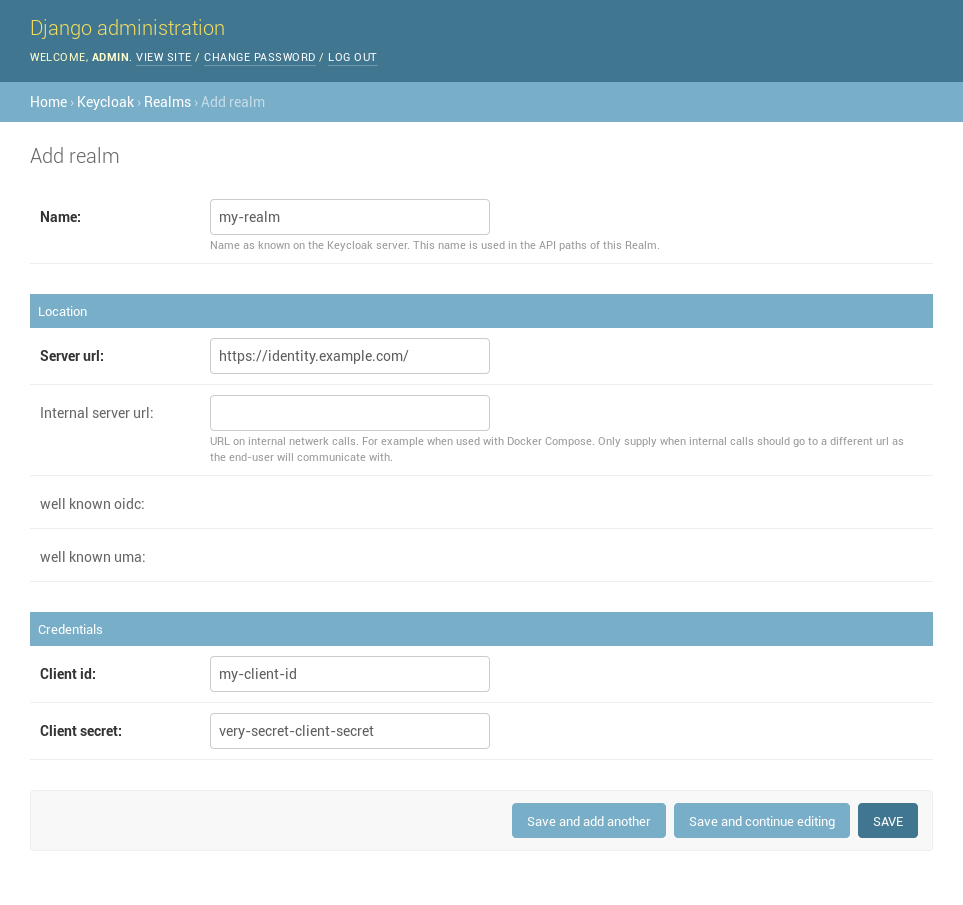
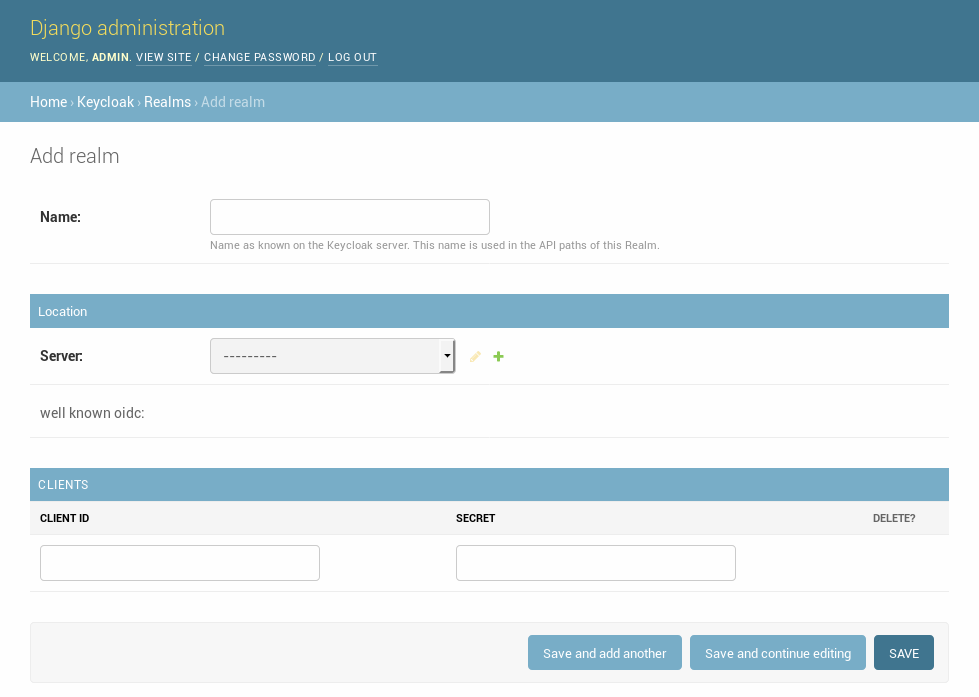
Service account (#6)
* Added Client service account as user

* Fixed unnittests

* - Updated docs to latest changes.
- Fixed some bugs after refactoring

* Fixed unittests

diff --git a/src/django_keycloak/auth/backends.py b/src/django_keycloak/auth/backends.py
@@ -4,7 +4,7 @@ from django.contrib.auth import get_user_model
 from django.core.exceptions import ImproperlyConfigured
 from django.utils import timezone
 
-import django_keycloak.services.user
+import django_keycloak.services.oidc_profile
 
 
 logger = logging.getLogger(__name__)
@@ -33,7 +33,7 @@ class KeycloakAuthorizationCodeBackend(object):
                 'Add BaseKeycloakMiddleware to middlewares')
 
         keycloak_openid_profile = django_keycloak.services\
-            .user.update_or_create_from_code(
+            .oidc_profile.update_or_create_from_code(
                 client=request.realm.client,
                 code=code,
                 redirect_uri=redirect_uri
@@ -53,14 +53,14 @@ class KeycloakAuthorizationCodeBackend(object):
         if not hasattr(user_obj, 'oidc_profile'):
             return set()
 
-        rpt_decoded = django_keycloak.services.user\
+        rpt_decoded = django_keycloak.services.oidc_profile\
             .get_entitlement(oidc_profile=user_obj.oidc_profile)
 
         logger.debug(rpt_decoded)
 
         return [
             role for role in rpt_decoded['resource_access'].get(
-                user_obj.oidc_profile.realm.client_id,
+                user_obj.oidc_profile.realm.client.client_id,
                 {'roles': []}
             )['roles']
         ]

diff --git a/src/django_keycloak/views.py b/src/django_keycloak/views.py
@@ -37,17 +37,17 @@ class Login(RedirectView):
 
         self.request.session['oidc_state'] = str(nonce.state)
 
-        authorization_url = self.request.realm.openid_api_client\
+        authorization_url = self.request.realm.client.openid_api_client\
             .authorization_url(
                 redirect_uri=nonce.redirect_uri,
                 scope='openid given_name family_name email uma_authorization',
                 state=str(nonce.state)
             )
 
-        if self.request.realm.internal_server_url:
+        if self.request.realm.server.internal_url:
             authorization_url = authorization_url.replace(
-                self.request.realm.internal_server_url,
-                self.request.realm.server_url,
+                self.request.realm.server.internal_url,
+                self.request.realm.server.url,
                 1
             )
 
@@ -83,7 +83,7 @@ class Logout(RedirectView):
 
     def get_redirect_url(self, *args, **kwargs):
         if hasattr(self.request.user, 'oidc_profile'):
-            self.request.realm.openid_api_client.logout(
+            self.request.realm.client.openid_api_client.logout(
                 self.request.user.oidc_profile.refresh_token
             )
         logout(self.request)

diff --git a/src/django_keycloak/tests/services/oidc_profile/test_get_entitlement.py b/src/django_keycloak/tests/services/oidc_profile/test_get_entitlement.py
@@ -28,18 +28,19 @@ class ServicesKeycloakOpenIDProfileGetActiveAccessTokenTestCase(
         )
         self.oidc_profile.realm.client.openid_api_client = mock.MagicMock(
             spec_set=KeycloakOpenidConnect)
-        self.oidc_profile.realm.authz_api_client = mock.MagicMock(
+        self.oidc_profile.realm.client.authz_api_client = mock.MagicMock(
             spec_set=KeycloakAuthz)
-        self.oidc_profile.realm.authz_api_client.entitlement.return_value = {
-            'rpt': 'RPT_VALUE'
-        }
+        self.oidc_profile.realm.client.authz_api_client.entitlement\
+            .return_value = {
+                'rpt': 'RPT_VALUE'
+            }
         self.oidc_profile.realm.certs = {'cert': 'cert-value'}
 
     def test(self):
         django_keycloak.services.oidc_profile.get_entitlement(
             oidc_profile=self.oidc_profile
         )
-        self.oidc_profile.realm.authz_api_client.entitlement\
+        self.oidc_profile.realm.client.authz_api_client.entitlement\
             .assert_called_once_with(
                 token=self.mocked_get_active_access_token.return_value
             )

diff --git a/src/django_keycloak/services/oidc_profile.py b/src/django_keycloak/services/oidc_profile.py
@@ -149,7 +149,8 @@ def get_entitlement(oidc_profile):
     """
     access_token = get_active_access_token(oidc_profile=oidc_profile)
 
-    rpt = oidc_profile.realm.authz_api_client.entitlement(token=access_token)
+    rpt = oidc_profile.realm.client.authz_api_client.entitlement(
+        token=access_token)
 
     rpt_decoded = oidc_profile.realm.client.openid_api_client.decode_token(
         token=rpt['rpt'],

diff --git a/docs/index.rst b/docs/index.rst
@@ -47,6 +47,18 @@ backend and middleware. Point to the correct login page.
 
     LOGIN_URL = 'keycloak_login'
 
+Server configuration
+====================
+
+First you have to add your Keycloak server. You can do this in the Django Admin.
+
+.. image:: add-server.png
+
+.. note:: When your application access the Keycloak server using a different url
+          than the public one you can configure this URL as "internal url". Django
+          Keycloak will use that url for all direct communication but uses the standard
+          server url to redirect users for authentication.
+
 Realm configuration
 ===================
 
@@ -61,11 +73,6 @@ in Keycloak you can add these in the Django admin.
           selects the first realm available in the database.
 
 .. image:: add-realm.png
-
-.. note:: When your application access the Keycloak server using a different url
-than the public one you can configure this URL as "internal server url". Django
-Keycloak will use that url for all direc communication but uses the standard
-server url to redirect users for authentication.
 
 After you have added the realm please make sure to run te following actions:
 
